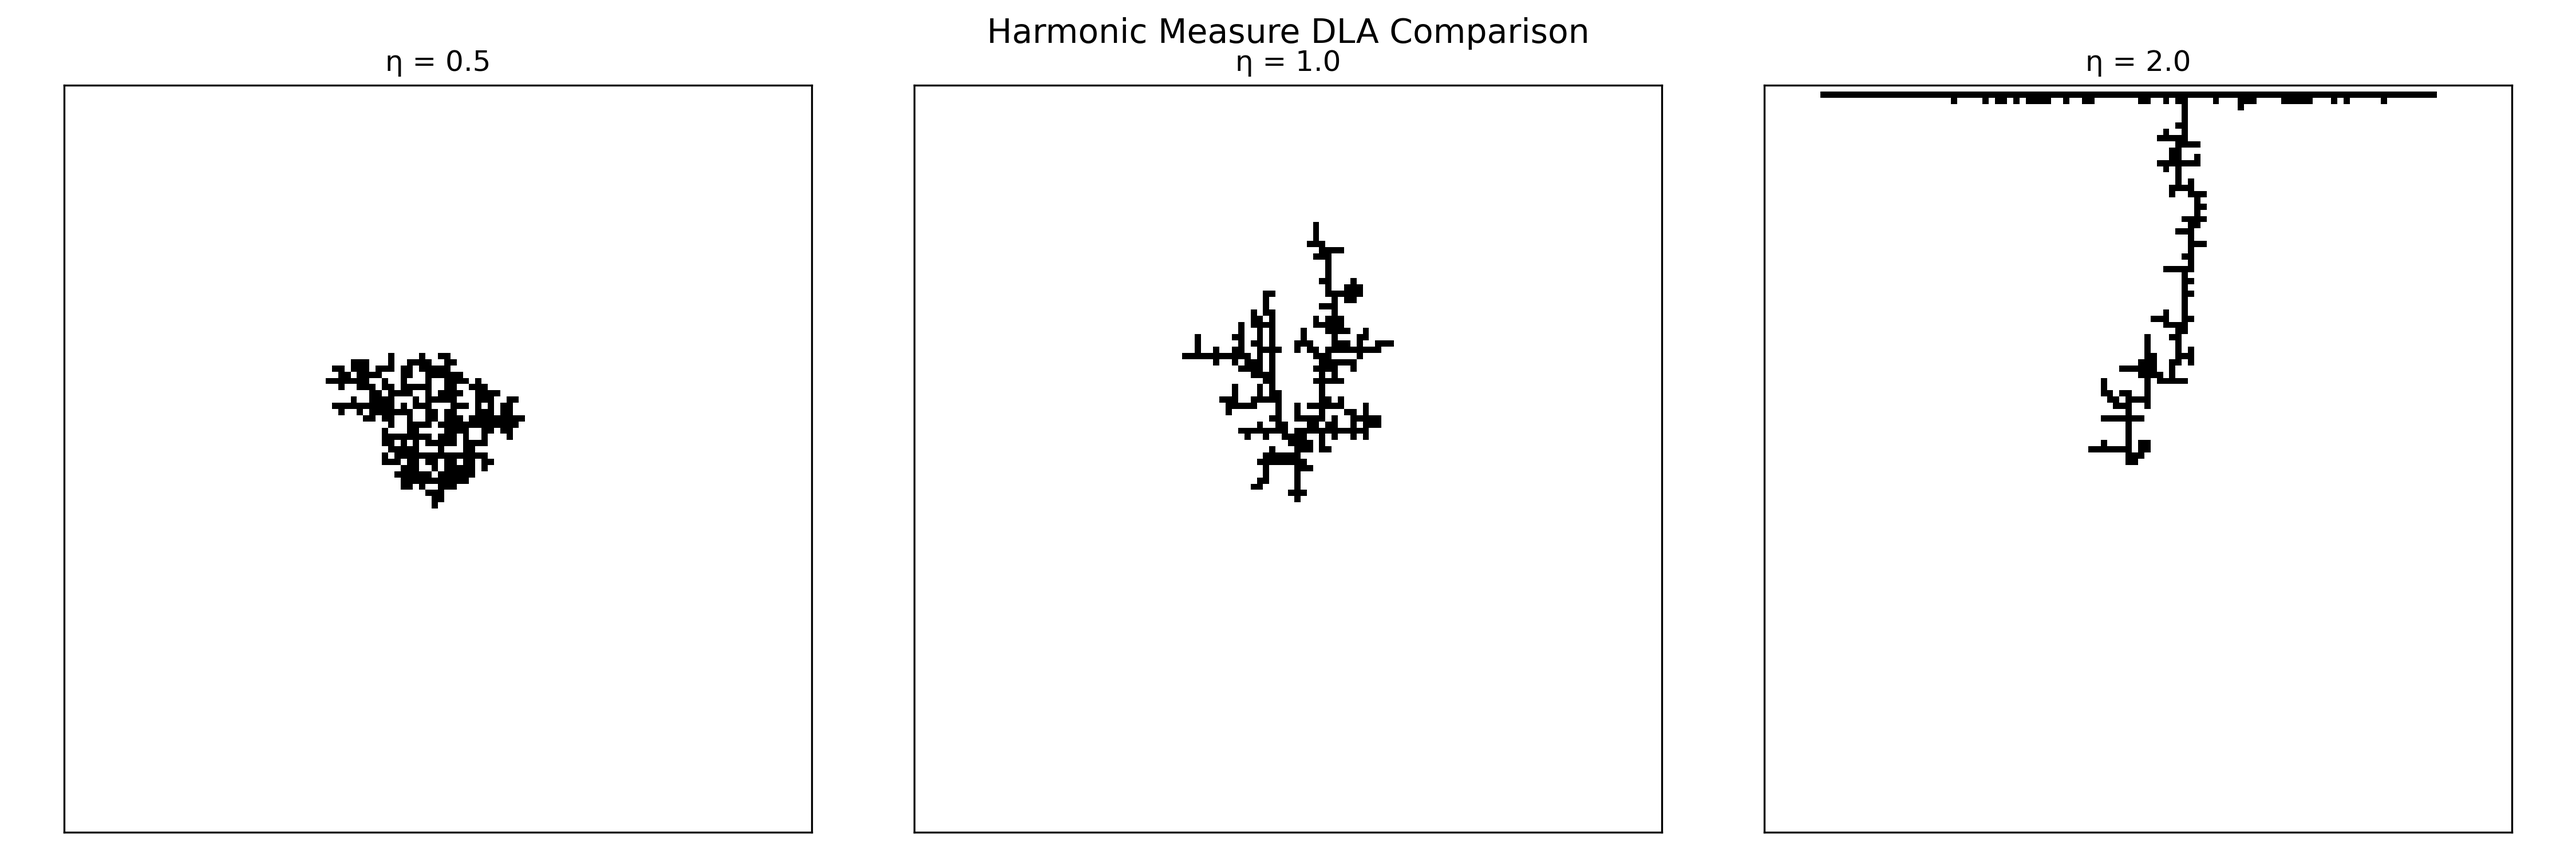
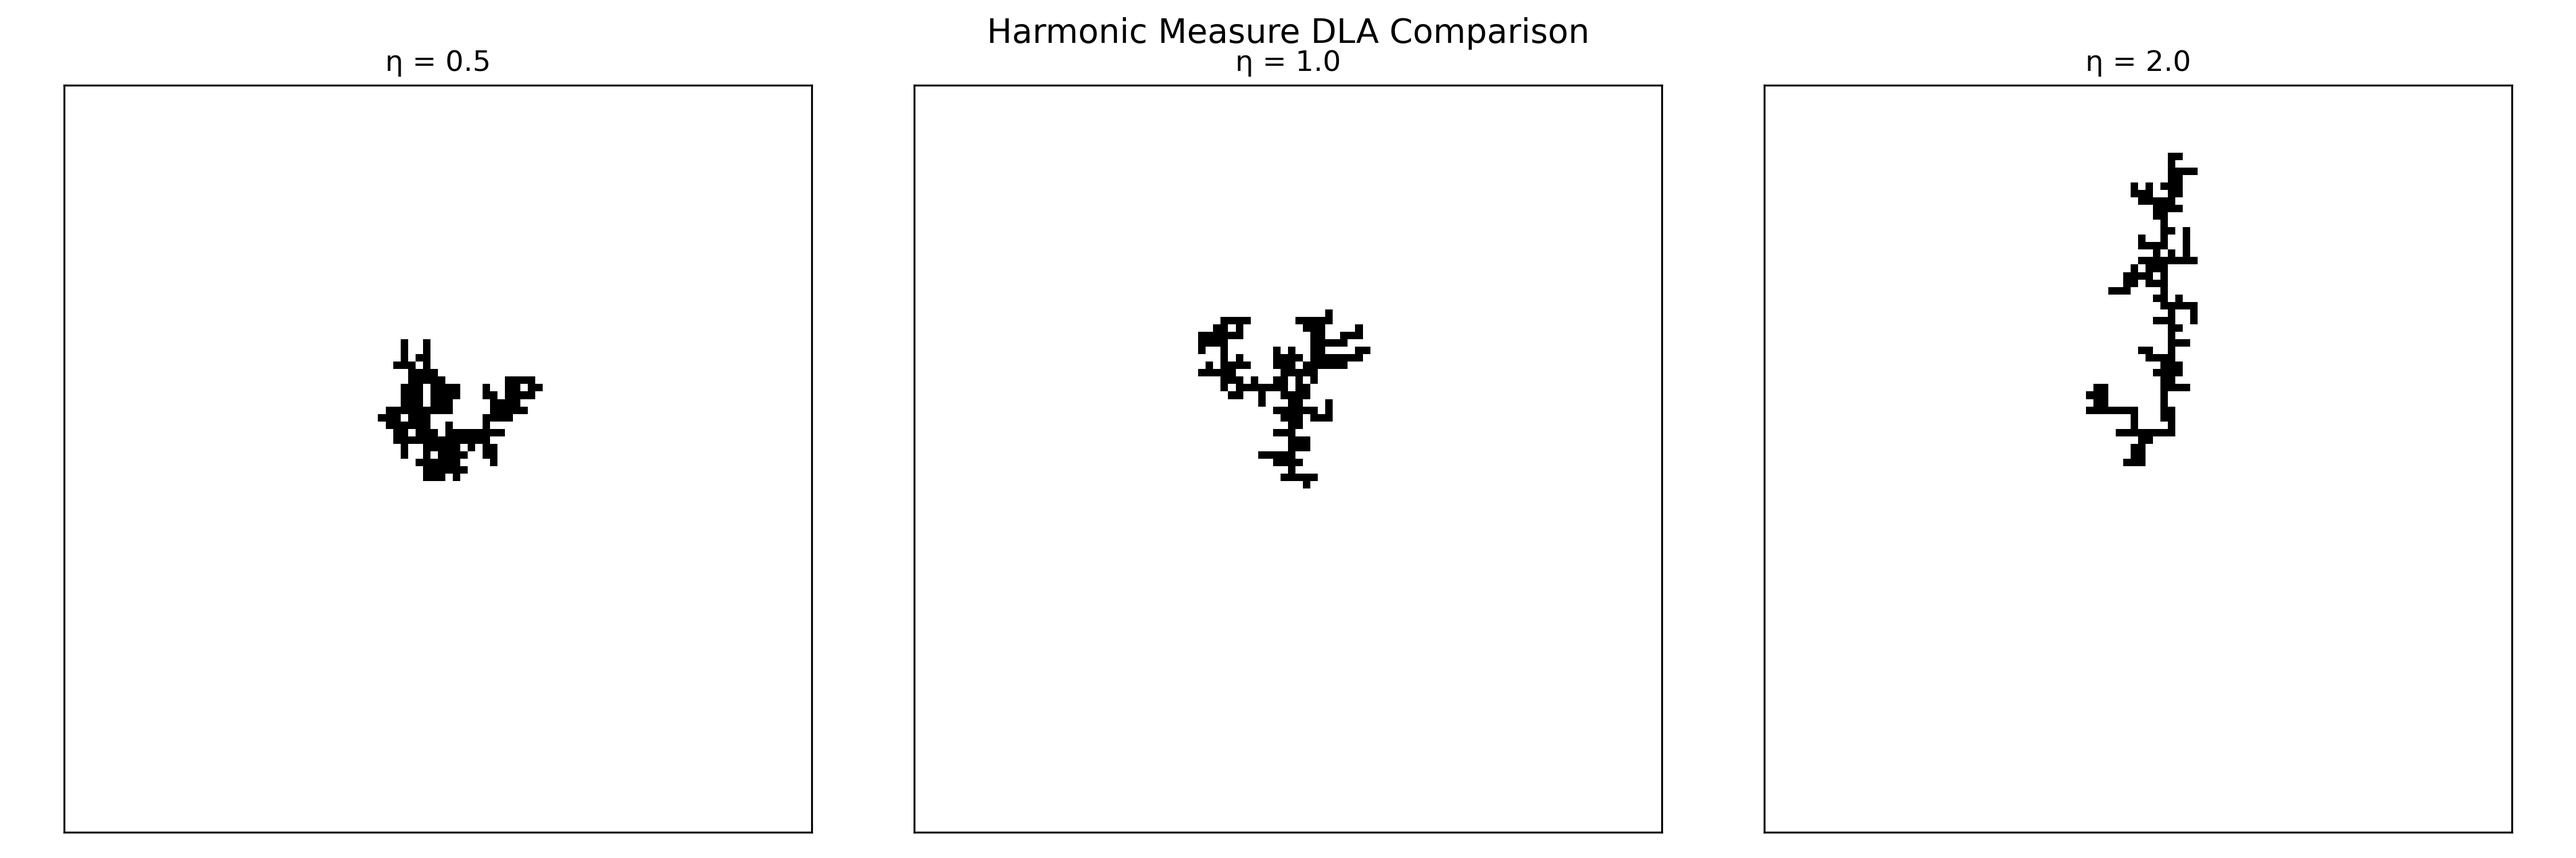
2.1B and 2.2 update

Changed region(s): [[0.7156, 0.092, 0.9333, 0.552], [0.4667, 0.276, 0.5289, 0.5827], [0.1244, 0.3987, 0.2178, 0.5827]]

diff --git a/montecarlo_dla.py b/montecarlo_dla.py
@@ -1,0 +1,93 @@
+import numpy as np
+import matplotlib.pyplot as plt
+
+
+class MonteCarloDLA:
+    def __init__(self, N=100, p_stick=1.0):
+        self.N = N
+        self.p_stick = p_stick
+        self.cluster = np.zeros((N, N), dtype=bool)
+
+        # Seed at center
+        center = N // 2
+        self.cluster[center, center] = True
+
+    def release_particle(self):
+        x = np.random.randint(0, self.N)
+        y = self.N - 1
+        return x, y
+
+    def is_adjacent_to_cluster(self, x, y):
+        if x <= 0 or x >= self.N - 1 or y <= 0 or y >= self.N - 1:
+            return False
+
+        return (
+            self.cluster[x+1, y] or
+            self.cluster[x-1, y] or
+            self.cluster[x, y+1] or
+            self.cluster[x, y-1]
+        )
+    def random_walk(self):
+        x, y = self.release_particle()
+
+        max_steps = 10000
+        steps = 0
+        while True:
+            steps += 1
+            if steps > max_steps:
+                return False
+            # Random move
+            direction = np.random.randint(4)
+
+            if direction == 0:
+                x += 1
+            elif direction == 1:
+                x -= 1
+            elif direction == 2:
+                y += 1
+            else:
+                y -= 1
+
+            # Keep inside domain
+            x = max(1, min(self.N - 2, x))
+            y = max(1, min(self.N - 2, y))
+
+            # Check sticking
+            if self.is_adjacent_to_cluster(x, y):
+                if np.random.rand() < self.p_stick:
+                    self.cluster[x, y] = True
+                    return True
+
+    def run(self, particles=500):
+        for i in range(particles):
+            self.random_walk()
+
+    def plot(self):
+        plt.figure(figsize=(6,6))
+        plt.imshow(self.cluster.T, origin="lower", cmap="binary")
+        plt.title(f"Monte Carlo DLA (p = {self.p_stick})")
+        plt.show()
+
+
+if __name__ == "__main__":
+
+    particles = 300
+    p_values = [1.0, 0.5, 0.2]
+
+    fig, axes = plt.subplots(1, 3, figsize=(15,5))
+
+    for ax, p in zip(axes, p_values):
+
+        print(f"Running Monte Carlo DLA with p = {p}")
+
+        dla = MonteCarloDLA(N=100, p_stick=p)
+        dla.run(particles=particles)
+
+        ax.imshow(dla.cluster.T, origin="lower", cmap="binary")
+        ax.set_title(f"p = {p}")
+        ax.set_xticks([])
+        ax.set_yticks([])
+
+    plt.suptitle("Monte Carlo DLA Comparison")
+    plt.tight_layout()
+    plt.show()

diff --git a/SRC/SOR.py b/SRC/SOR.py
@@ -6,7 +6,7 @@ class SORsolver:
     Boundary condition is set to 0, and initial guess is set to 1.
     '''
 
-    def __init__(self, N = 100, omega = 1.5, tol = 1e-6, max_iter = 10000):
+    def __init__(self, N = 100, omega = 1.5, tol = 1e-4, max_iter = 10000):
         self.N = N
         self.omega = omega
         self.tol = tol
@@ -53,6 +53,6 @@ class SORsolver:
                 print(f"Iteration {it+1}, max change: {delta:.6e}")
             if delta < self.tol:
                 if verbose:
-                    print(f"Convergence achieved after {it+1} iterations.")
+                    print(f"Converged in {it+1} iterations (delta = {delta:.2e})")
                 break
         return self.c

diff --git a/dla.py b/dla.py
@@ -58,7 +58,7 @@ class DLAsolver(SORsolver):
     def grow_one_particle(self):
 
         # Solve Laplace equation
-        c = self.solve()
+        c = self.solve(verbose=True)
 
         boundary = self.get_boundary_sites()
         if not boundary:
@@ -113,9 +113,9 @@ if __name__ == "__main__":
     # Set number of eta values
     etas = [0.5, 1.0, 2.0]
     # Set grid size and number of growth steps
-    N = 120
+    N = 100
     # Number of steps to run
-    steps = 300
+    steps = 150
 
     fig, axes = plt.subplots(1, 3, figsize=(15, 5))
 
